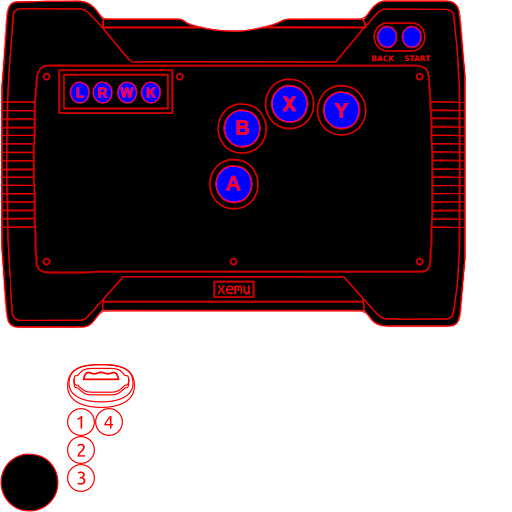
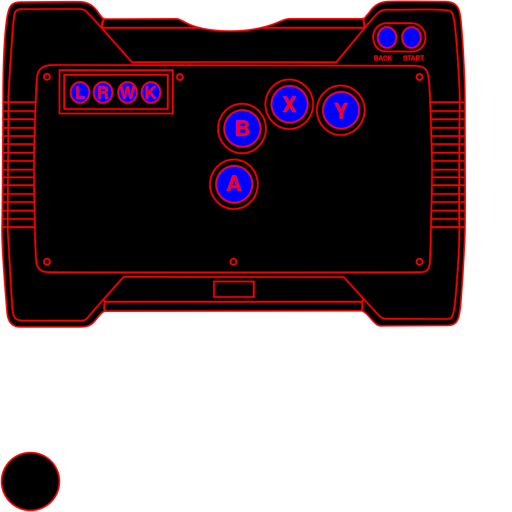
Recreated the Arcade Stick mask as an SVG Recreated the Arcade Stick mask from the SVG Tweaked the coordinates of texture items to ensure they line up correctly after the texture change Removed XID_DEVICESUBTYPE_LIGHT_GUN from this PR as it's not relevant to this PR

Changed region(s): [[0.0, 0.0, 0.9375, 0.6562], [0.0, 0.6875, 0.2812, 1.0], [0.1875, 0.0312, 0.4375, 0.0938]]

diff --git a/ui/xui/gl-helpers.cc b/ui/xui/gl-helpers.cc
@@ -637,18 +637,18 @@ void RenderArcadeStick(float frame_x, float frame_y, uint32_t primary_color,
 {
     // Location within the controller texture of masked button locations,
     // relative to the origin of the controller
-    const struct rect stick_ctr = { 116, 163, 0, 0 };
+    const struct rect stick_ctr = { 116, 161, 0, 0 };
     const struct rect buttons[12] = {
-        { 216, 127, 37, 39 }, // A
+        { 216, 126, 37, 39 }, // A
         { 224, 182, 37, 39 }, // B
-        { 272, 207, 37, 39 }, // X
-        { 324, 200, 37, 39 }, // Y
+        { 271, 206, 37, 39 }, // X
+        { 322, 200, 37, 39 }, // Y
         { 0, 0, 0, 0 }, // D-Left
         { 0, 0, 0, 0 }, // D-Up
         { 0, 0, 0, 0 }, // D-Right
         { 0, 0, 0, 0 }, // D-Down
-        { 378, 282, 21, 23 }, // Back
-        { 402, 282, 21, 23 }, // Start
+        { 378, 280, 21, 23 }, // Back
+        { 402, 280, 21, 23 }, // Start
         { 118, 225, 21, 23 }, // White
         { 141, 225, 21, 23 }, // Black
     };

diff --git a/hw/xbox/xid.h b/hw/xbox/xid.h
@@ -54,7 +54,6 @@
 #define XID_DEVICESUBTYPE_GAMEPAD_S 0x02
 #define XID_DEVICESUBTYPE_ARCADE_STICK 0x20
 #define XID_DEVICESUBTYPE_DIGITAL_ARCADE_STICK 0x21
-#define XID_DEVICESUBTYPE_LIGHT_GUN 0x50
 
 #define TYPE_USB_XID_GAMEPAD "usb-xbox-gamepad"
 #define TYPE_USB_XID_ARCADE_STICK "usb-xbox-arcade-stick"
